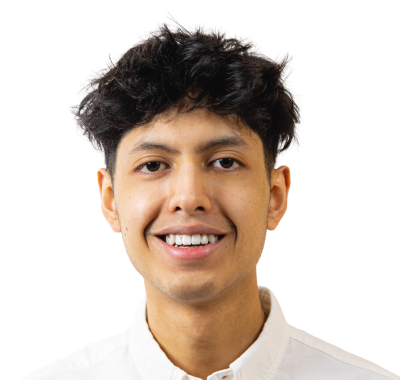
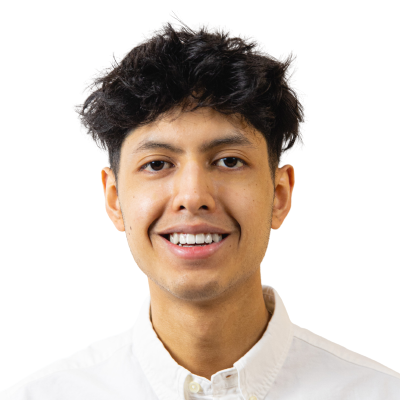
add noise, mercy doan, high res headshots and reduce some gaps on home page

Changed region(s): [[0.18, 0.0289, 1.0, 1.0], [0.72, 0.9842, 0.75, 1.0], [0.48, 0.1737, 0.51, 0.2026]]

diff --git a/app/leadership/page.tsx b/app/leadership/page.tsx
@@ -24,6 +24,7 @@ import sam_l from "../../assets/Headshots/Sam_Lin.png"
 import sanindie_s from "../../assets/Headshots/Sanindie_Silva.png"
 import sara_l from "../../assets/Headshots/Sara_Laker.png"
 import sunghoon_k from "../../assets/Headshots/Sunghoon_Kim.png"
+import mercy_d from "../../assets/Headshots/Mercy_Doan.png"
 
 import { sofia_sans } from "../font";
 
@@ -95,7 +96,7 @@ export default function Leadership() {
                 {
                     name: "Mercy Doan",
                     title: "Director of Design, NLP",
-                    img: rabab_azeem,
+                    img: mercy_d,
                     class: "leadershipCardDesign"
                 },
                 {
@@ -186,7 +187,9 @@ export default function Leadership() {
                                 {section.cards.map((card,index) => {
                                     return (
                                         <div key={index} className={`${card.class} md:basis-[21%] w-[210px] md:w-[250px] text-center flex flex-col justify-center items-center rounded-[15px] p-[20px] md:rounded-[25px] md:p-[25px] bg-[#2E2E2E]`}>
-                                            <Image src={card.img} alt="" className={`${card.class}-img rounded-[5px] md:rounded-[10px]`}/>
+                                            <div className={`${card.class}-img rounded-[5px] md:rounded-[10px]`}>
+                                                <Image src={card.img} alt="" className={`noise`}/>
+                                            </div>
                                             <p className={`${sofia_sans.className} font-semibold font-gothic text-[14px] md:text-[18px] mt-[0.75rem] md:mt-[1rem]`}>{card.name}</p>
                                             <p className={`${sofia_sans.className} font-light font-gothic text-[11px] md:text-[13px] mt-[0.1rem]`}>{card.title}</p>
                                         </div>

diff --git a/app/page.tsx b/app/page.tsx
@@ -137,7 +137,7 @@ export default function Home() {
 
       {/* Testimonials */}
       <ContentContainer className="text-center overflow-hidden relative !max-w-[2000px] ">
-        <div className="flex flex-col text-center mt-[100px] mb-[30px] md:mb-[50px] font-gothic font-bold leading-[40px] md:leading-[60px] lg:leading-[76.46px] text-center">
+        <div className="flex flex-col text-center mt-[100px] mb-[30px] md:mb-[44px] font-gothic font-bold leading-[40px] md:leading-[60px] lg:leading-[76.46px] text-center">
           <h1 className="text-[25px] md:text-[45px] lg:text-[48px]">
             Our Partners Love QMIND
           </h1>
@@ -153,7 +153,7 @@ export default function Home() {
 
       {/* National Conference */}
       <ContentContainer className="text-center flex flex-col justify-center ">
-        <div className="flex flex-col text-center mt-[100px] mb-[30px] md:mb-[50px] font-gothic font-bold  text-center">
+        <div className="flex flex-col text-center mt-[100px] mb-[30px] md:mb-[44px] font-gothic font-bold  text-center">
           <h1 className="text-[25px] md:text-[45px] lg:text-[48px]">
             Our National Conference <br />{" "}
           </h1>
@@ -179,7 +179,7 @@ export default function Home() {
 
       {/* National Conference */}
       <ContentContainer className="text-center flex flex-col justify-center ">
-        <div className="flex flex-col text-center mt-[100px] mb-[30px] md:mb-[50px] font-gothic font-bold text-center">
+        <div className="flex flex-col text-center mt-[100px] mb-[30px] md:mb-[44px] font-gothic font-bold text-center">
           <h1 className="text-[25px] md:text-[45px] lg:text-[48px]">
             Our Product Incubator
             <br />{" "}

diff --git a/app/leadership/page.scss b/app/leadership/page.scss
@@ -18,3 +18,8 @@
 .leadershipCardDevelopment:hover {
     box-shadow: 0px 0px 17.66189956665039px 0px rgba(94, 2, 46, 0.75), 0px 0px 5.046257019042969px 0px rgba(255, 255, 255, 0.25);
 }
+
+.noise {
+    background: url(../../assets/noise.png);
+    background-blend-mode: screen;
+}
